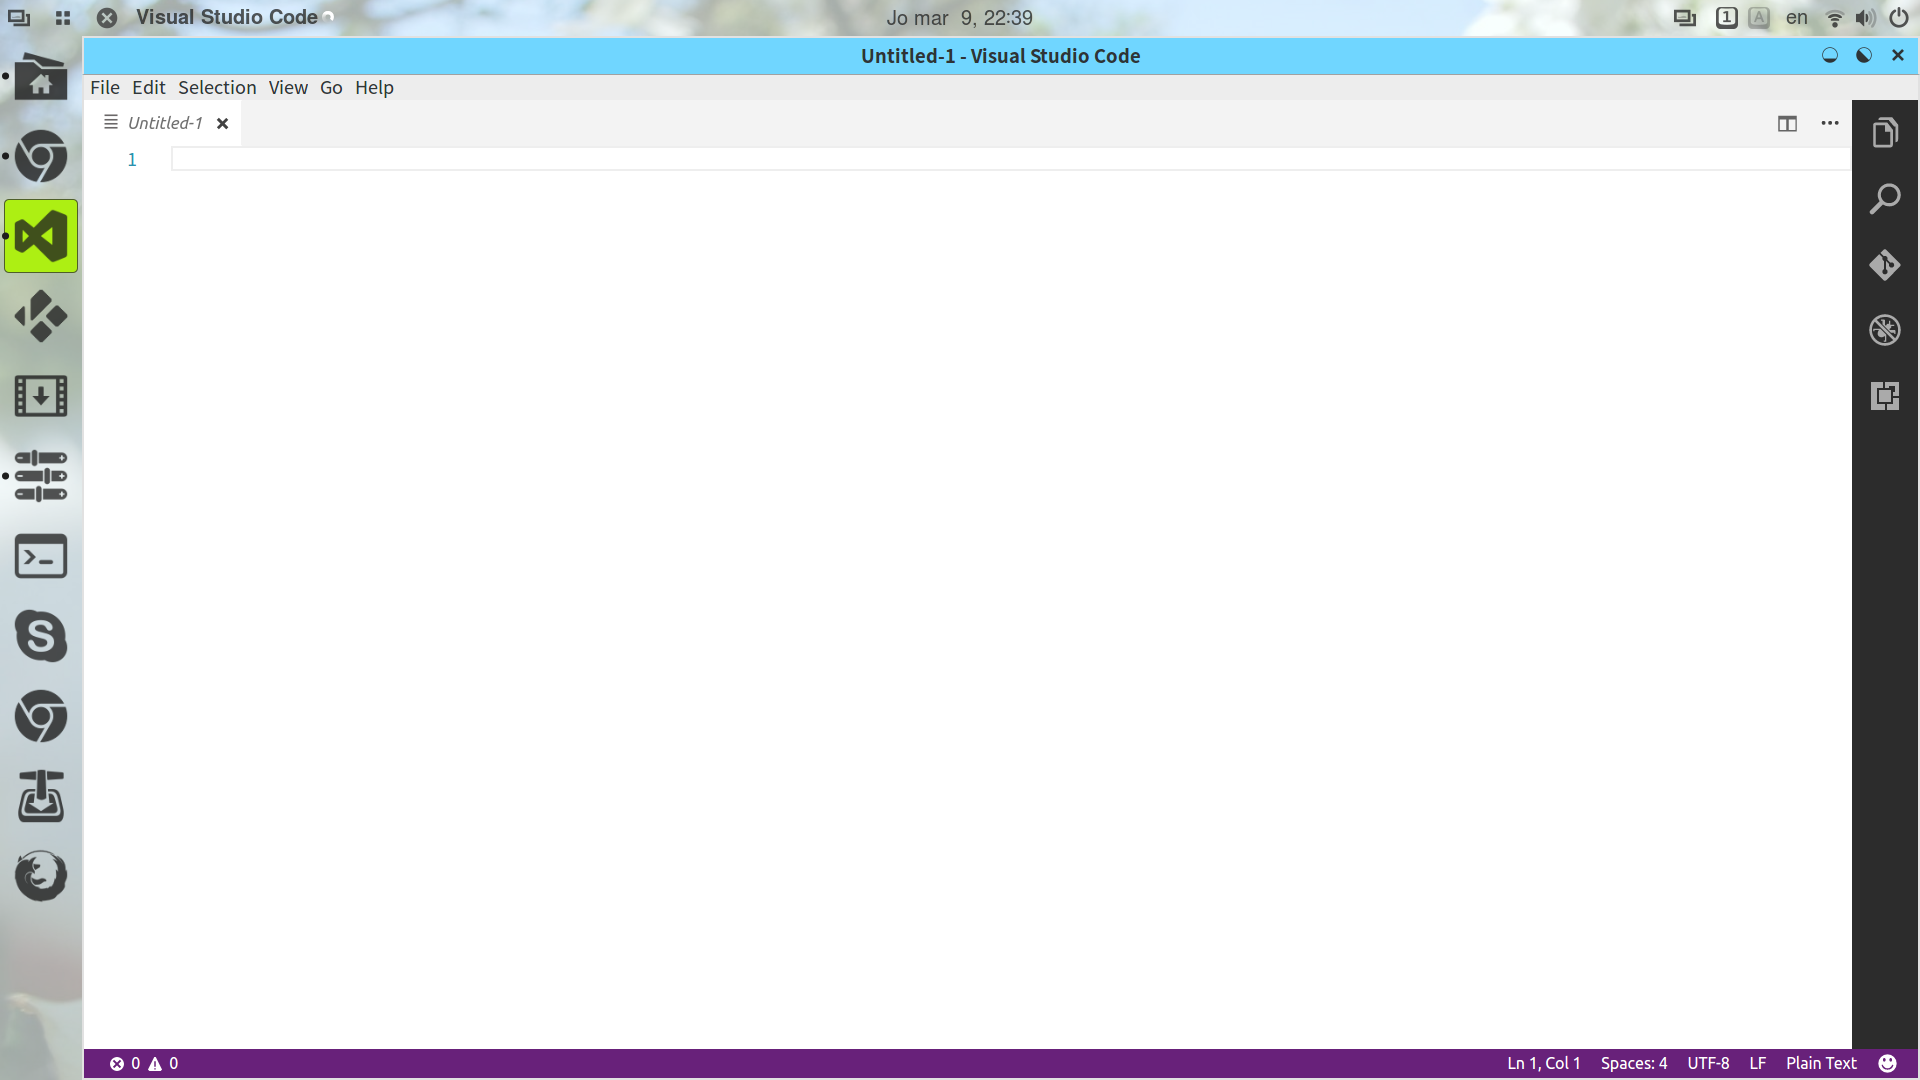
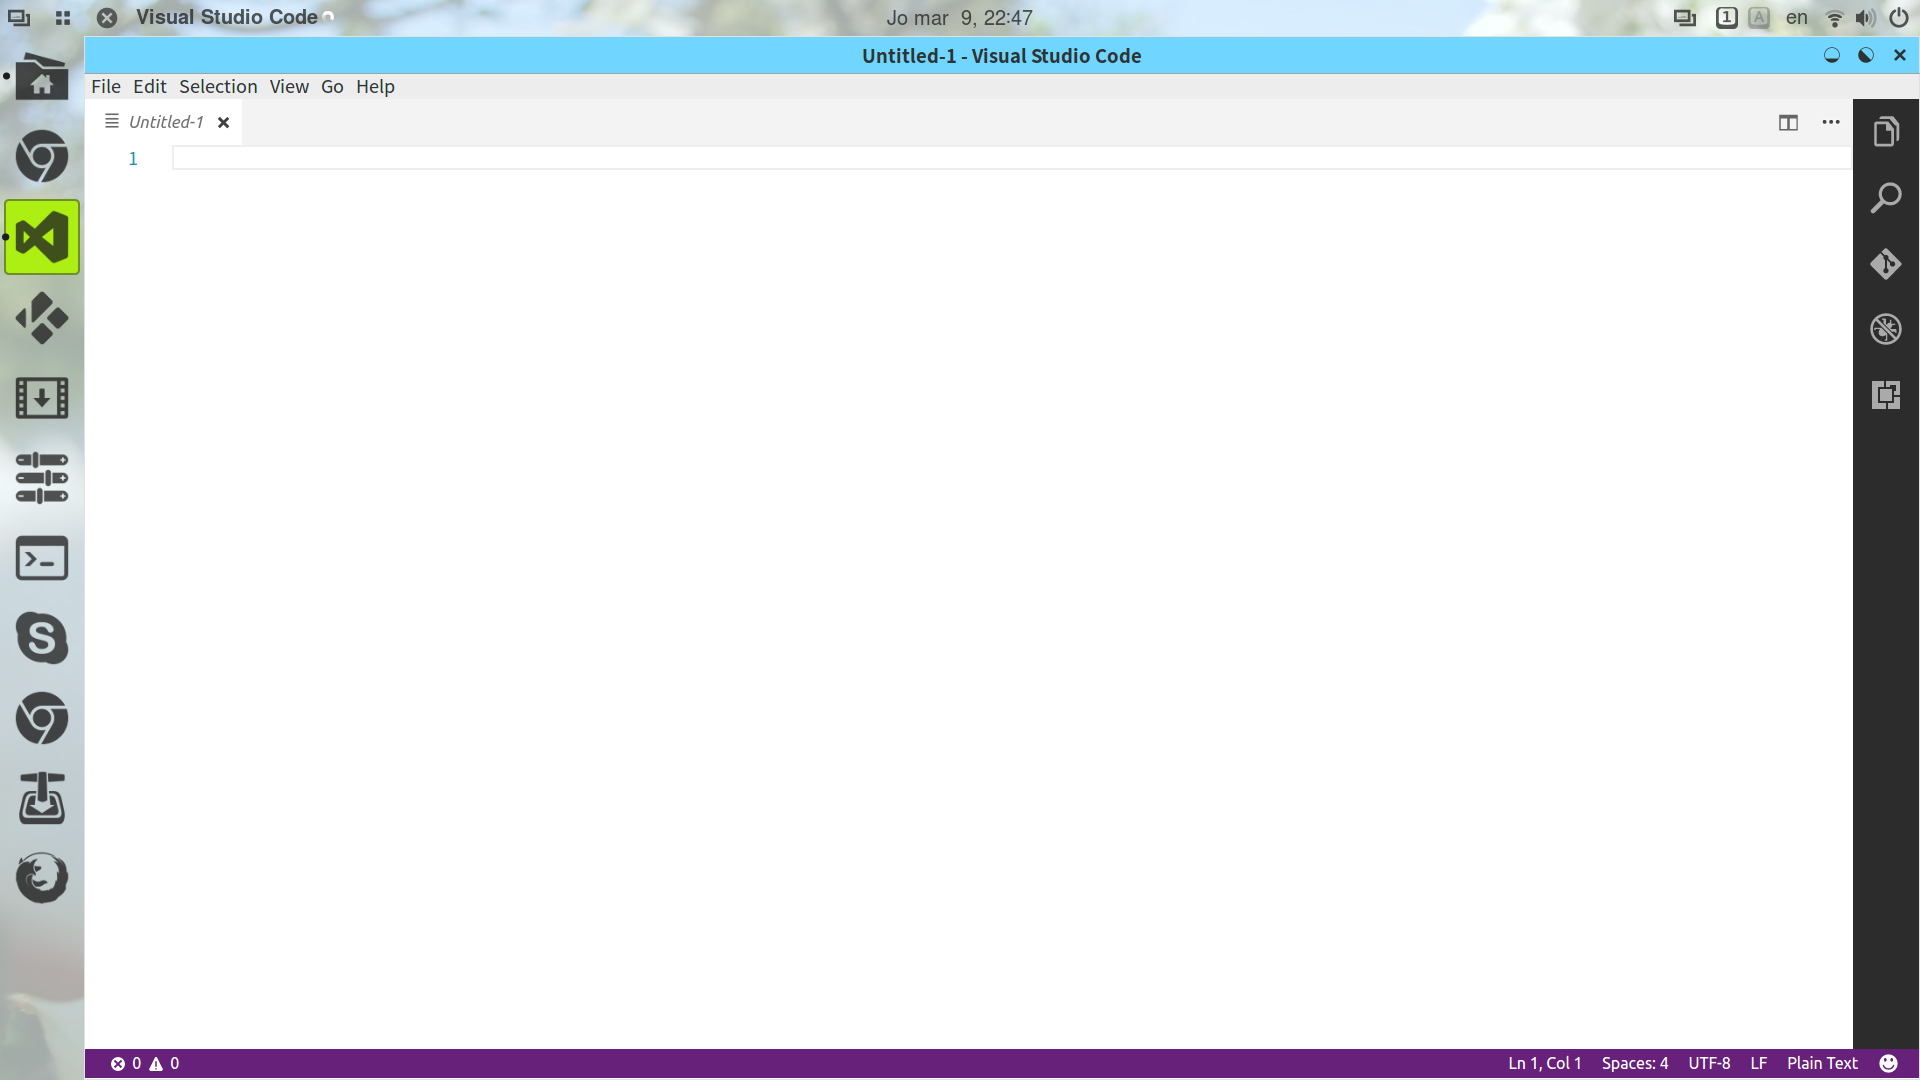
1px border for window-frame, 2px border for dash buttons

diff --git a/.local/share/gnome-shell/extensions/dash-to-dock@micxgx.gmail.com/stylesheet.css b/.local/share/gnome-shell/extensions/dash-to-dock@micxgx.gmail.com/stylesheet.css
@@ -90,7 +90,7 @@
 #dashtodockContainer.running-dots .app-well-app  .overview-icon,
 #dashtodockContainer.dashtodock .app-well-app  .overview-icon {
     /*background-color: rgba(248,248,248,0.75);*/
-    /*border: 1px solid rgba(48,48,48,0.75);*/
+    border: 2px transparent;
     background-image:none;
     /*border-radius: 40px;*/
     padding: 8px;
@@ -102,7 +102,7 @@
 #dashtodockContainer.dashtodock .app-well-app.focused  .overview-icon {
     background-color: #ADEF13;
     background-image:none;
-    border: 1px solid rgba(48,48,48,0.75);
+    border: 2px solid rgba(48,48,48,0.50);
     /*border-radius: 40px;*/
     padding: 8px;
     margin: 2px;

diff --git a/.config/gtk-3.0/gtk.css b/.config/gtk-3.0/gtk.css
@@ -1,9 +1,9 @@
 .window-frame {
 	border-radius: 0;
 	/*border-left: 10px solid #ffbb7c;*/
-	border-left: 2px solid #e1e1e1;
-	border-right: 2px solid #e1e1e1;
-	border-bottom: 2px solid #e1e1e1;
+	border-left: 1px solid #e1e1e1;
+	border-right: 1px solid #e1e1e1;
+	border-bottom: 1px solid #e1e1e1;
 }
 
 .window-frame.maximized {
@@ -12,9 +12,9 @@
 
 .titlebar {
 	border-radius: 0;
-	border-left: 2px solid #e1e1e1;
-	border-right: 2px solid #e1e1e1;
-	border-top: 2px solid #e1e1e1;
+	border-left: 1px solid #e1e1e1;
+	border-right: 1px solid #e1e1e1;
+	border-top: 1px solid #e1e1e1;
 }
 
 .header-bar {
